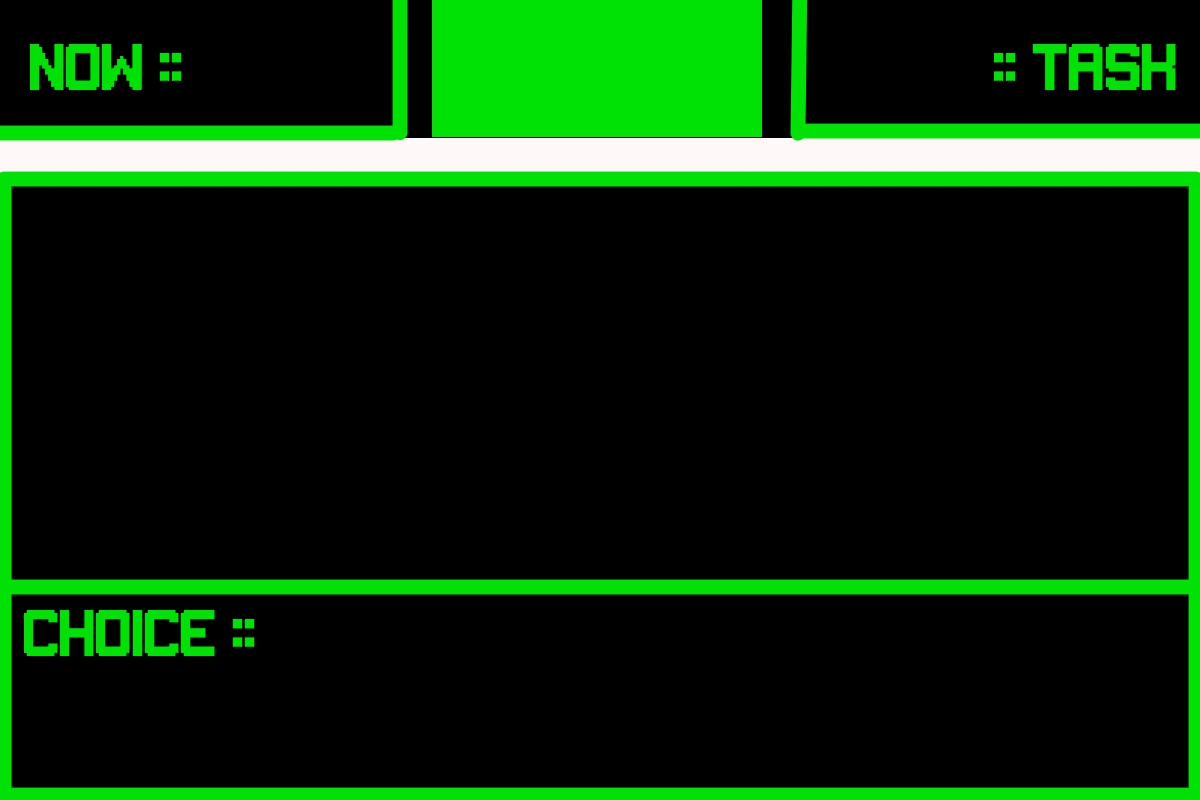
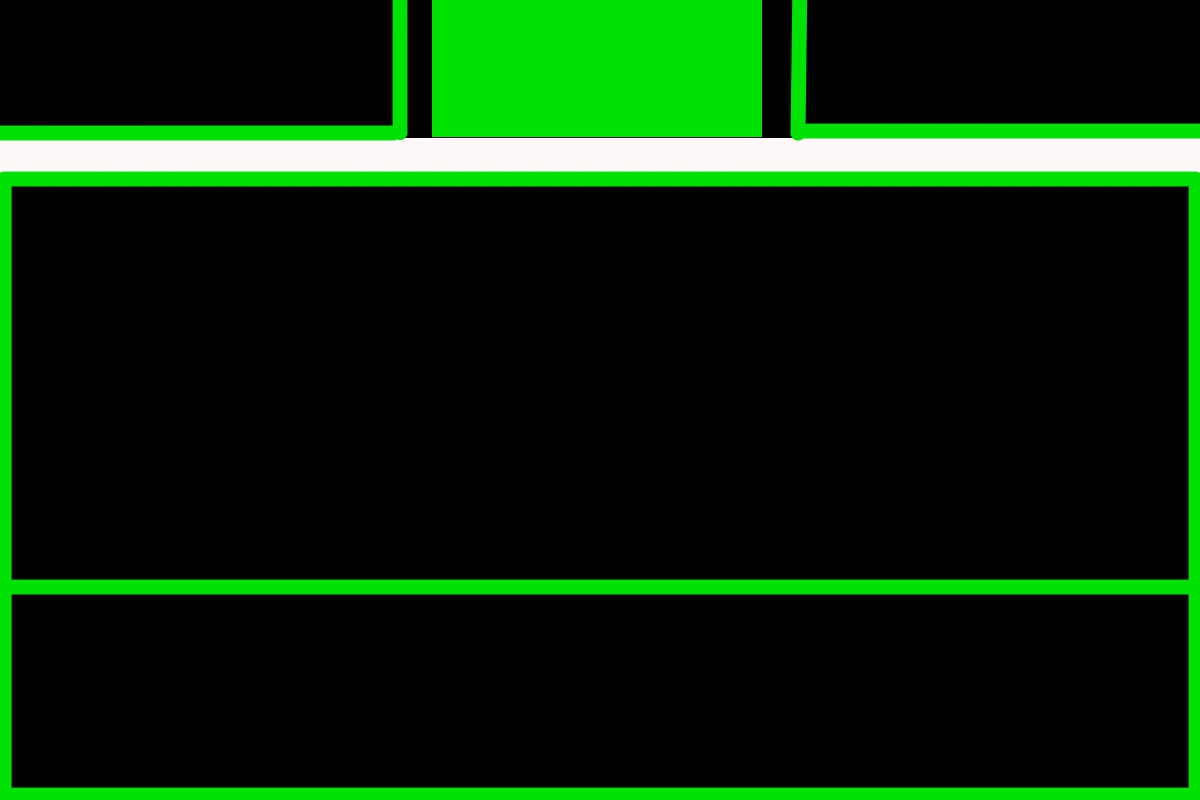
Can chage turn player

Changed region(s): [[0.0, 0.75, 0.2158, 0.8438], [0.8325, 0.0312, 0.9867, 0.125], [0.0, 0.0312, 0.1542, 0.125]]

diff --git a/core/src/com/monpriya/gdx/game/World.java b/core/src/com/monpriya/gdx/game/World.java
@@ -1,5 +1,51 @@
 package com.monpriya.gdx.game;
 
-public class World {
+import java.util.Random;
 
+import com.badlogic.gdx.Gdx;
+import com.badlogic.gdx.graphics.OrthographicCamera;
+import com.badlogic.gdx.math.Rectangle;
+import com.badlogic.gdx.math.Vector3;
+
+public class World {
+	
+	public int turn;
+	public final Random rand;
+	OrthographicCamera guiCam;
+	Vector3 touchPoint;
+	Rectangle choice1Bounds, choice2Bounds, choice3Bounds, choice4Bounds;
+	
+	public World (ProjectGame game) {
+		rand = new Random();
+		this.turn = 0;
+		guiCam = new OrthographicCamera(800, 800);
+		guiCam.position.set(800 / 2, 800 / 2, 0);
+		choice1Bounds = new Rectangle(-102, -95, 222, 55);
+		choice2Bounds = new Rectangle(-140, 180, 290, 55);
+		choice3Bounds = new Rectangle(-40, -265, 95, 55);
+		choice4Bounds = new Rectangle(-40, -265, 95, 55);
+		touchPoint = new Vector3();
+	}
+	
+	public void update () {
+		if (Gdx.input.justTouched()) {
+			guiCam.unproject(touchPoint.set(Gdx.input.getX(), Gdx.input.getY(), 0));
+			turn++;
+//			if (playBounds.contains(touchPoint.x, touchPoint.y)) {
+//				Assets.playSound(Assets.clickSound);
+//				game.setScreen(new GameScreen(game));
+//				return;
+//			}
+//			if (howtoBounds.contains(touchPoint.x, touchPoint.y)) {
+//				Assets.playSound(Assets.clickSound);
+//				game.setScreen(new HowtoScreen(game));
+//				return;
+//			}
+//			if (exitBounds.contains(touchPoint.x, touchPoint.y)) {
+//				Assets.playSound(Assets.clickSound);
+//				Gdx.app.exit();
+//			}
+		}
+	}
+	
 }

diff --git a/core/src/com/monpriya/gdx/game/WorldRenderer.java b/core/src/com/monpriya/gdx/game/WorldRenderer.java
@@ -8,23 +8,45 @@ import com.badlogic.gdx.graphics.g2d.SpriteBatch;
 public class WorldRenderer {
 
 	private Texture backgroundImage;
+	private Texture leftturnImage;
+	private Texture rightturnImage;
+	private Texture whitebarImage;
 	private SpriteBatch batch;
+	private World world;
 	
-	public WorldRenderer(ProjectGame game, World world) {
-        batch = game.batch;
+	public WorldRenderer (ProjectGame game, World world) {
+		batch = game.batch;
         backgroundImage = new Texture("playScreen.jpg");
+        leftturnImage = new Texture("leftTurn.jpg");
+        rightturnImage = new Texture("rightTurn.jpg");
+        whitebarImage = new Texture("whiteBar.jpg");
+        this.world = world;
     }
 	
-	public void render() {
+	public void render () {
 		GL20 gl = Gdx.gl;
 		gl.glClear(GL20.GL_COLOR_BUFFER_BIT);
 		renderBackground();
+		renderTurn();
     }
 	
 	public void renderBackground () {
 		batch.disableBlending();
 		batch.begin();
 		batch.draw(backgroundImage, 0, 0);
+		batch.end();
+	}
+	
+	public void renderTurn () {
+		batch.begin();
+		if (world.turn%2==0) {
+			batch.draw(leftturnImage, 0, 628);
+			batch.draw(whitebarImage, 600, 628);
+		}
+		else {
+			batch.draw(whitebarImage, 0, 628);
+			batch.draw(rightturnImage, 600, 628);
+		}
 		batch.end();
 	}
 	

diff --git a/core/src/com/monpriya/gdx/game/MainMenuScreen.java b/core/src/com/monpriya/gdx/game/MainMenuScreen.java
@@ -36,6 +36,8 @@ public class MainMenuScreen extends ScreenAdapter {
 	public void update () {
 		if (Gdx.input.justTouched()) {
 			guiCam.unproject(touchPoint.set(Gdx.input.getX(), Gdx.input.getY(), 0));
+//			System.out.println(touchPoint.x);
+//			System.out.println(touchPoint.y);
 			if (playBounds.contains(touchPoint.x, touchPoint.y)) {
 //				Assets.playSound(Assets.clickSound);
 				game.setScreen(new GameScreen(game));
@@ -61,7 +63,7 @@ public class MainMenuScreen extends ScreenAdapter {
 	
 	@Override
 	public void render (float delta) {
-		 update();
+		update();
 		draw();
 	}
 	

diff --git a/core/src/com/monpriya/gdx/game/GameScreen.java b/core/src/com/monpriya/gdx/game/GameScreen.java
@@ -11,14 +11,14 @@ public class GameScreen extends ScreenAdapter {
 	
 	public GameScreen (ProjectGame game) {
 		this.game = game;
-		world = new World();
+		world = new World(game);
 		worldrenderer = new WorldRenderer(game, world);
 		answer = 0;
 	}
 	
 	@Override
 	public void render (float delta) {
-//		update();
+		world.update();
 		draw();
 	}
 	
